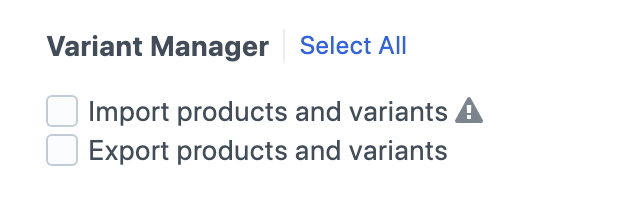
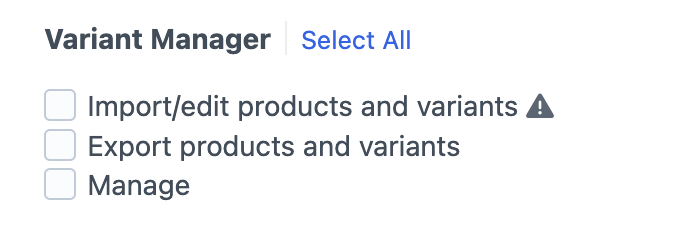
Begin refactoring v5 docs

Changed region(s): [[0.0609, 0.3714, 0.8221, 0.8857], [0.0609, 0.1143, 0.6699, 0.3143]]

diff --git a/docs/getting-started/field.md b/docs/getting-started/field.md
@@ -2,21 +2,24 @@
 
 Variant Manager provides a "Variant Attributes" custom field type you need to add to your Craft Commerce variant field
 layouts. This field is used by Variant Manager to save the variant attribute name and value pairs when imports occur,
-and can be used in your twig templates to allow users to [select a variant and add to cart](recipes/add-to-cart.md) or
+and can be used in your Twig templates to allow users to [select a variant and add to cart](recipes/add-to-cart.md) or
 [filter variants based on a selection](../recipes/variant-filter.md).
+
+Content for this field can only be added via Variant Manager's import utility. Once added, a row's value field can be 
+manually edited, however, the name cannot. This is intentional to reduce human error.
 
 ![Screenshot](../../resources/img/field-display.png)
 
 ## Add the Variant Attributes field to your product types variants
 
-In order for Variant Manager to import your variant data from your spreadsheets, and to use twig tags in your templates
+In order for Variant Manager to import your variant data from your spreadsheets, and to use Twig tags in your templates
 to filter and select variants, you will first need to add the "Variant Attributes" custom field included in Variant
-Manager to your product type variant field layouts.
+Manager to your product type's variant field layouts.
 
 ### 1. Create a "Variant Attributes" field in Craft
 
 Create a new custom field in Craft and select the "Variant Attributes" field type. The field type has no settings so you
-just need to give it a unique name and field handle. (ex. "Variant Attributes" and "variantAttributes" respectively)
+just need to give it a unique name and field handle (ex. "Variant Attributes" and "variantAttributes" respectively).
 
 ![Screenshot](../../resources/img/field-new.png)
 

diff --git a/docs/getting-started/configuration.md b/docs/getting-started/configuration.md
@@ -8,12 +8,20 @@ Create a `variant-manager.php` file in your `config` directory. The following sh
 return [
 	'emptyAttributeValue' => '',
 	'attributePrefix' => 'Attribute: ',
+	'inventoryPrefix' => 'Inventory: ',
 	'activityLogRetention' => '30 days',
+	'productFieldMap' => [
+		'*' => [
+			'title' => 'title',
+			'slug' => 'slug',
+		],
+	],
 	'variantFieldMap' => [
 		'*' => [
+			'title' => 'title',
 			'sku' => 'sku',
-			'stock' => 'stock',
-			'price' => 'price',
+			'inventoryTracked' => 'inventoryTracked',
+			'price' => 'basePrice',
 			'height' => 'height',
 			'width' => 'width',
 			'length' => 'length',
@@ -39,6 +47,10 @@ The value to use when a variant's attribute value is empty.
 
 The prefix to use to determine which columns correspond to variant attributes when importing/exporting product variants.
 
+####  `inventoryPrefix`
+
+The prefix to use to determine which columns correspond to variant inventory counts when importing/exporting product variants.
+
 #### `activityLogRetention`
 
 The duration for which activity logs should be retained. Accepts values like '1 week', '30 days', etc. Set to `null` or `false` to retain logs indefinitely.
@@ -46,6 +58,16 @@ The duration for which activity logs should be retained. Accepts values like '1 
 When enabled, activity logs outside the retention period are automatically removed during GC.
 
 Activity logs can also be removed using the `variant-manager/activities/clear` command. Pass `all` to the command to remove all activity logs.
+
+### `productFieldMap`
+
+The map of column names to product properties.
+
+Supported field types and formatting:
+<!-- TODO -->
+- title
+- slug
+- entries
 
 ### `variantFieldMap`
 

diff --git a/docs/getting-started/setup.md b/docs/getting-started/setup.md
@@ -3,21 +3,37 @@
 
 ## Requirements
 
-- Craft v4.4.6 or greater
-- Craft Commerce v4.2 or greater
-- PHP 8.1 or greater
+- Craft CMS 5.0 or later
+- Craft Commerce 5.0 or later
+- PHP 8.2 or greater
 
 ## Installation
 
-### Installing via Craft Plugin Store
+You can install this plugin from the Plugin Store or with Composer.
 
-To install Variant Manager, navigate to the Plugin Store in your site's Craft Control Panel, search for Variant Manager, and click the Try button.
+#### From the Plugin Store
 
-### Installing via Composer
+Go to the Plugin Store in your project’s Control Panel and search for “Variant Manager”. Then press “Install”.
 
-You can add the package to your project using Composer and the command line using the below as a reference.
+#### With Composer
 
-1. Open your terminal of choice and go to your Craft project: `cd /path/to/project`
-1. Tell Composer to require the plugin and then Craft to install it: `composer require fostercommerce/variant-manager && php craft plugin/install variant-manager`
+Open your terminal and run the following commands:
 
+```bash
+# go to the project directory
+cd /path/to/my-project.test
 
+# tell Composer to load the plugin
+composer require fostercommerce/variant-manager
+
+# tell Craft to install the plugin
+./craft plugin/install variant-manager
+```
+
+#### With DDEV
+
+Run the following command from DDEV:
+
+```bash
+ddev composer require fostercommerce/variant-manager -w && ddev exec php craft plugin/install variant-manager
+```

diff --git a/README.md b/README.md
@@ -1,39 +1,8 @@
 ![Screenshot](resources/img/header.png)
 # Variant Manager
 
-A plugin for managing product variants.
+A plugin for managing products and their variants in Craft Commerce.
 
-## Requirements
+## Setup and Usage
 
-This plugin requires at least Craft CMS 4.4.6, Craft Commerce 4.2, and PHP 8.1.
-
-## Installation
-
-You can install this plugin from the Plugin Store or with Composer.
-
-#### From the Plugin Store
-
-Go to the Plugin Store in your project’s Control Panel and search for “Variant Manager”. Then press “Install”.
-
-#### With Composer
-
-Open your terminal and run the following commands:
-
-```bash
-# go to the project directory
-cd /path/to/my-project.test
-
-# tell Composer to load the plugin
-composer require fostercommerce/variant-manager
-
-# tell Craft to install the plugin
-./craft plugin/install variant-manager
-```
-
-#### With DDEV
-
-Run the following command from DDEV:
-
-```bash
-ddev composer require fostercommerce/variant-manager -w && ddev exec php craft plugin/install variant-manager
-```
+[See docs](/docs)

diff --git a/docs/element-queries/variant-queries.md b/docs/element-queries/variant-queries.md
@@ -13,13 +13,13 @@ The Variant Attributes field accepts 3 formats of filters:
 
 The following will return all variants which have the option `'Value'`:
 
-### PHP
+#### PHP
 
 ```php
 \craft\commerce\elements\Variant::find()->myVariantAttributes('Value')->all();
 ```
 
-### Twig
+#### Twig
 
 ```twig
 {% craft.variants().myVariantAttributes("Value").all() %}

diff --git a/docs/getting-started/permissions.md b/docs/getting-started/permissions.md
@@ -18,3 +18,9 @@ Allows users to import products through the Variant Manager dashboard.
 Allows users to export products from Craft Commerce's product list or from individual products.
 
 #### `variant-manager:export`
+
+## Manage
+
+Allows users to manage plugin data, such as clearing activity logs.
+
+#### `variant-manager:manage`
